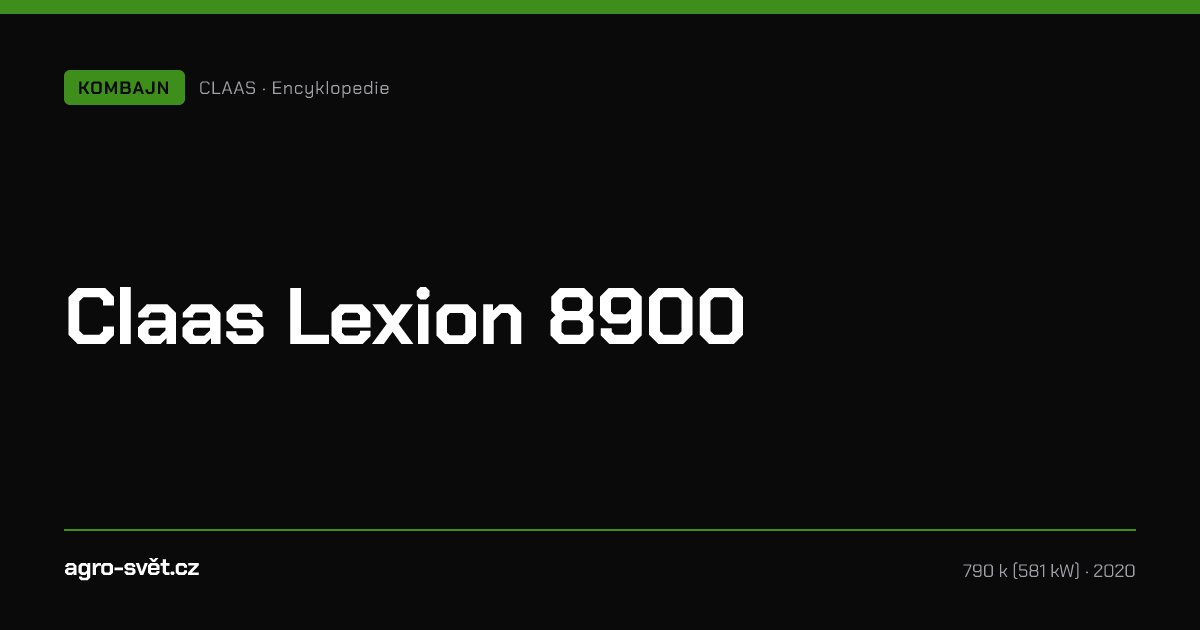
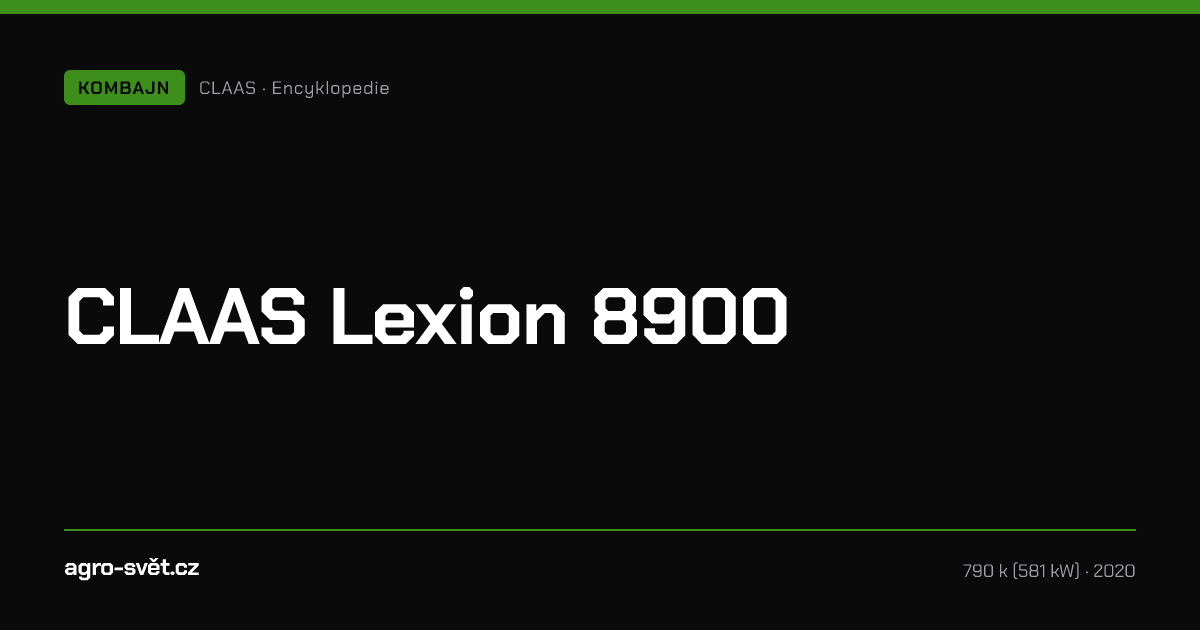
fix(i18n): cs-only prerendered cesty vyřazovat centrálně, ne per-locale v sitemapě
Po launchi /plodiny a /kviz pro sk nabrala /sk sitemapa 9943 URL místo 7231 —
2715 detailů odrůd a 2 nelokalizované kvízy, které pod locale prefixem 302-ují
na cs. Brány na ně existovaly, ale JEN uvnitř pl mirroru v sitemap.xml.ts, takže
sk launch je musel zkopírovat — a nezkopíroval.

Logika přesunuta do isPrerenderedOnlyPath(), kterou už volaly všechny tři
mirrory i localizeInternalHref(). Vedlejší efekt je žádoucí: interní odkazy na
tyhle cesty se pod /sk a /pl přestanou lokalizovat, takže nevedou přes redirect.

Detail odrůdy je úřední popis ÚKZÚZ k odrůdě registrované v ČR, kvízy „jaký
traktor" a „jaká včela" cílí na českou servisní síť a chov — ani jedno není
překlad, ale jiná data.

Ověřeno na sitemapě: sk 7231 URL (žádný detail odrůdy, kvízy jen hub +
historie-znacek), pl beze změny.

Changed region(s): [[0.0925, 0.4524, 0.6783, 0.5429]]

diff --git a/tests/i18n/prerendered-cs-only.test.ts b/tests/i18n/prerendered-cs-only.test.ts
@@ -1,0 +1,45 @@
+import { describe, it, expect } from 'vitest';
+import { isPrerenderedOnlyPath, localizeInternalHref, isLaunchedPath } from '../../src/i18n/utils';
+
+// PROČ: /plodiny je pro sk i pl launchnuté, ale DETAIL ODRŮDY je prerendered
+// cs-only (úřední popis ÚKZÚZ k odrůdě registrované v ČR) — pod locale prefixem
+// 302 na cs. Totéž dva kvízy, které cílí na české podmínky. Když se takové cesty
+// neoznačí, sitemapa locale nabere tisíce URL, které skončí redirectem, a interní
+// odkazy vedou přes 302. PL mirror to řešil vlastními branami v sitemap.xml.ts;
+// sk launch by tu bránu musel zkopírovat, tak je logika na jednom místě.
+describe('prerendered cs-only cesty uvnitř launchnutých sekcí', () => {
+  const ODRUDA = '/plodiny/psenice-ozima/seladon/';
+  const QUIZ_CS_ONLY = '/kviz/jaky-traktor-potrebujete/';
+  const QUIZ_LOCALIZED = '/kviz/historie-znacek/';
+
+  it('detail odrůdy je cs-only, ačkoli /plodiny launchnuté je', () => {
+    for (const locale of ['sk', 'pl'] as const) {
+      expect(isLaunchedPath(locale, ODRUDA)).toBe(true);
+      expect(isPrerenderedOnlyPath(ODRUDA)).toBe(true);
+      expect(localizeInternalHref(locale, ODRUDA)).toBe(ODRUDA);
+    }
+  });
+
+  it('hub, pillar i faceta plodin se lokalizují dál', () => {
+    expect(isPrerenderedOnlyPath('/plodiny/')).toBe(false);
+    expect(isPrerenderedOnlyPath('/plodiny/psenice-ozima/')).toBe(false);
+    expect(isPrerenderedOnlyPath('/plodiny/skupina/obiloviny/')).toBe(false);
+    expect(localizeInternalHref('sk', '/plodiny/psenice-ozima/')).toBe('/sk/plodiny/psenice-ozima/');
+  });
+
+  it('nelokalizované kvízy jsou cs-only, lokalizovaný a hub ne', () => {
+    expect(isPrerenderedOnlyPath(QUIZ_CS_ONLY)).toBe(true);
+    expect(isPrerenderedOnlyPath('/kviz/jaka-vcela-pro-vas/')).toBe(true);
+    expect(isPrerenderedOnlyPath('/kviz/poznas-znacku/')).toBe(true);
+    expect(isPrerenderedOnlyPath(QUIZ_LOCALIZED)).toBe(false);
+    expect(isPrerenderedOnlyPath('/kviz/')).toBe(false);
+    expect(localizeInternalHref('sk', QUIZ_CS_ONLY)).toBe(QUIZ_CS_ONLY);
+    expect(localizeInternalHref('sk', QUIZ_LOCALIZED)).toBe('/sk/kviz/historie-znacek/');
+  });
+
+  it('původní prefixová cesta funguje beze změny', () => {
+    expect(isPrerenderedOnlyPath('/data/prodeje-techniky')).toBe(true);
+    expect(isPrerenderedOnlyPath('/data/prodeje-techniky/2024/')).toBe(true);
+    expect(isPrerenderedOnlyPath('/data/')).toBe(false);
+  });
+});

diff --git a/src/pages/sitemap.xml.ts b/src/pages/sitemap.xml.ts
@@ -535,13 +535,6 @@ export const GET: APIRoute = async () => {
   // Cestu cs /dotace/<slug>/ preto z mirroru vylúčime a sk detaily pridáme explicitne
   // nižšie z getCollection('dotaceSk'). Hub /dotace/ a /dotace/kalendar-kol/ zdieľajú
   // rovnaké cesty pre cs aj sk, tie sa mirrorujú normálne.
-  // /plodiny/<plodina>/<odruda>/ — tři segmenty. Hub (/plodiny/), pillar
-  // (/plodiny/<p>/) i faceta (/plodiny/skupina/<s>/) se do mirroru pouštějí.
-  const isOdrudaDetailPath = (p: string) => {
-    const seg = p.split('/').filter(Boolean);
-    return seg.length === 3 && seg[0] === 'plodiny' && seg[1] !== 'skupina';
-  };
-
   const isDotaceDetailPath = (p: string) =>
     p.startsWith('/dotace/') && p !== '/dotace/' && p !== '/dotace/kalendar-kol/';
   // /sk-skryté novinkové kategorie (jurisdikčně uzamčené: dotace, legislativa)
@@ -601,15 +594,8 @@ export const GET: APIRoute = async () => {
       // pl mělo dosud gating novinek úplně vynechaný (ani skryté kategorie).
       if (isHiddenCategoryPath(p, 'pl')) return false;
       if (isDeadArticleForLocale(p, 'pl')) return false;
-      // /plodiny je pro pl launchnuté jen na úrovni PLODINY (hub, pillar, skupina).
-      // Detail odrůdy je úřední popis ÚKZÚZ k odrůdě registrované v ČR → zůstává
-      // cs-only. Bez téhle brány by pl sitemapa nabrala 2710 URL, které pod /pl
-      // stejně skončí 302 na cs (stránka je prerendered, viz middleware).
-      if (isOdrudaDetailPath(p)) return false;
-      // Kvízy „jaký traktor" a „jaká včela" nejsou pro pl lokalizované (cílí na
-      // servisní síť a podmínky v ČR) → pod /pl by 302-ovaly na cs. Hub /kviz/
-      // ale zůstává — ten lokalizovaný JE a vypisuje jen dostupné kvízy.
-      if (p !== '/kviz/' && p.startsWith('/kviz/') && !p.startsWith('/kviz/historie-znacek')) return false;
+      // Detail odrůdy a nelokalizované kvízy vyřazuje isPrerenderedOnlyPath()
+      // níž — dřív to byly brány jen tady, takže je sk launch musel zkopírovat.
       return isLaunchedPath('pl', p) && !isLockedSectionPath(p) && !isPrerenderedOnlyPath(p);
     })
     .map((u) => ({ ...u, loc: `${SITE_URL}/pl${u.loc.slice(SITE_URL.length)}` }));

diff --git a/src/i18n/utils.ts b/src/i18n/utils.ts
@@ -104,9 +104,28 @@ export function isSkLaunchedPath(csRootPath: string): boolean {
  *  v sitemap.xml.ts; sk a uk ne. */
 export const PRERENDERED_ONLY_PATHS: string[] = ['/data/prodeje-techniky'];
 
-/** True, pokud je cesta (nebo její podstrom) prerendered cs-only. */
+/** Kvízy, které NEJSOU lokalizované — cílí na české podmínky (servisní síť
+ *  značek, český chov včel), takže by pod locale prefixem nešlo o překlad, ale
+ *  o jiná data. Zůstávají prerendered cs-only; hub /kviz/ lokalizovaný je
+ *  a vypisuje jen kvízy dostupné v dané locale (viz kviz/index.astro). */
+const CS_ONLY_QUIZZES = ['jaky-traktor-potrebujete', 'jaka-vcela-pro-vas', 'poznas-znacku'];
+
+/** Detail odrůdy: /plodiny/<plodina>/<odruda>/ — tři segmenty, kde druhý není
+ *  faceta `skupina`. Je to úřední popis ÚKZÚZ k odrůdě registrované v ČR, takže
+ *  zůstává cs-only i tam, kde je /plodiny launchnuté. */
+function isOdrudaDetailPath(csRootPath: string): boolean {
+  const seg = csRootPath.split('/').filter(Boolean);
+  return seg.length === 3 && seg[0] === 'plodiny' && seg[1] !== 'skupina';
+}
+
+/** True, pokud je cesta (nebo její podstrom) prerendered cs-only.
+ *  Takové cesty se nelokalizují (pod prefixem 302 na cs) a nesmí se dostat ani
+ *  do locale mirroru sitemapy — jinak sitemapa nabere tisíce redirectů. */
 export function isPrerenderedOnlyPath(csRootPath: string): boolean {
-  return PRERENDERED_ONLY_PATHS.some((p) => csRootPath === p || csRootPath.startsWith(`${p}/`));
+  if (PRERENDERED_ONLY_PATHS.some((p) => csRootPath === p || csRootPath.startsWith(`${p}/`))) return true;
+  if (isOdrudaDetailPath(csRootPath)) return true;
+  const quiz = csRootPath.split('/').filter(Boolean);
+  return quiz[0] === 'kviz' && quiz.length > 1 && CS_ONLY_QUIZZES.includes(quiz[1]);
 }
 
 /** Lokalizuje interní href pro daný locale POUZE u launchnutých (reálně
